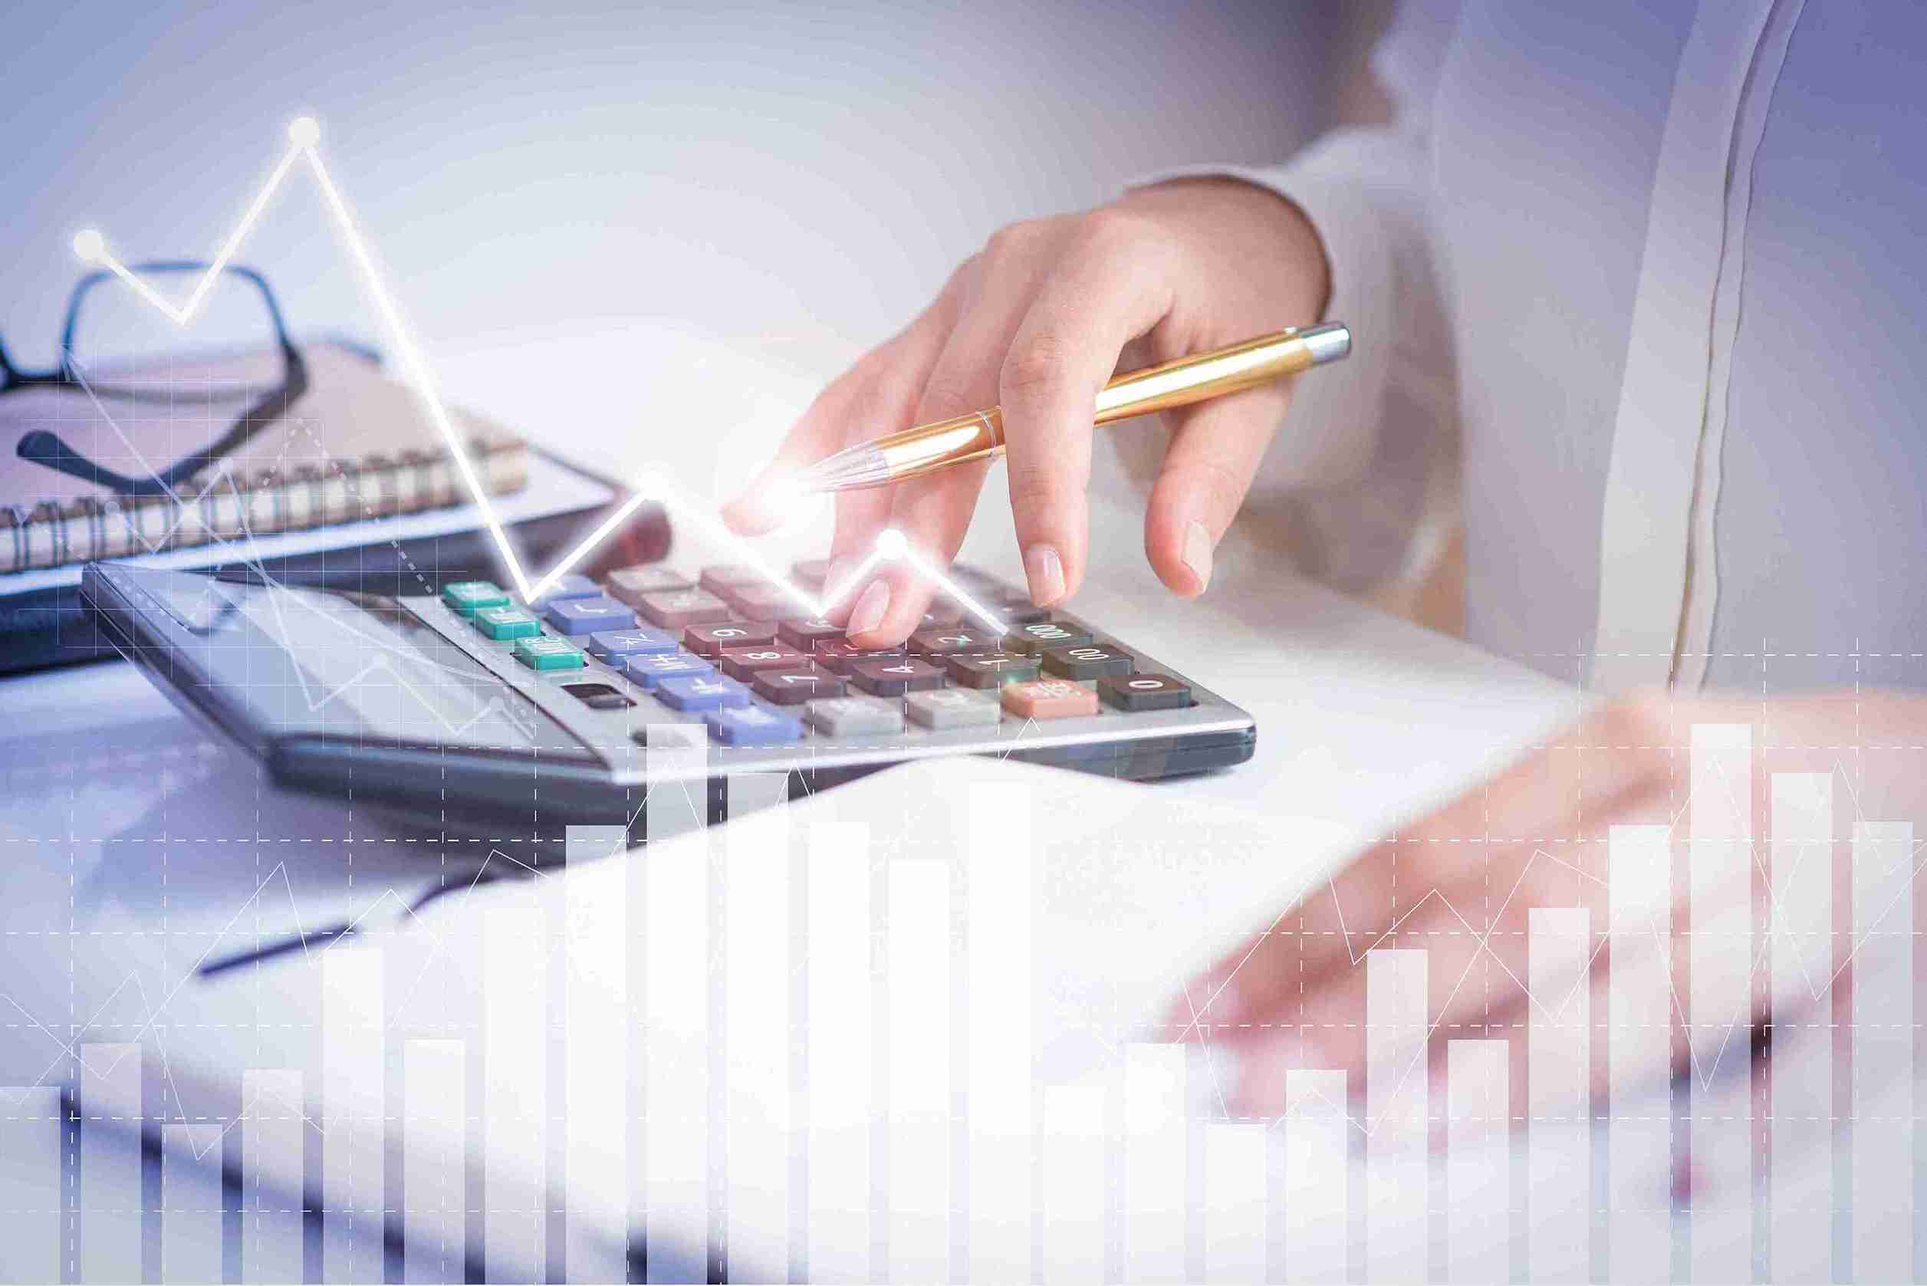
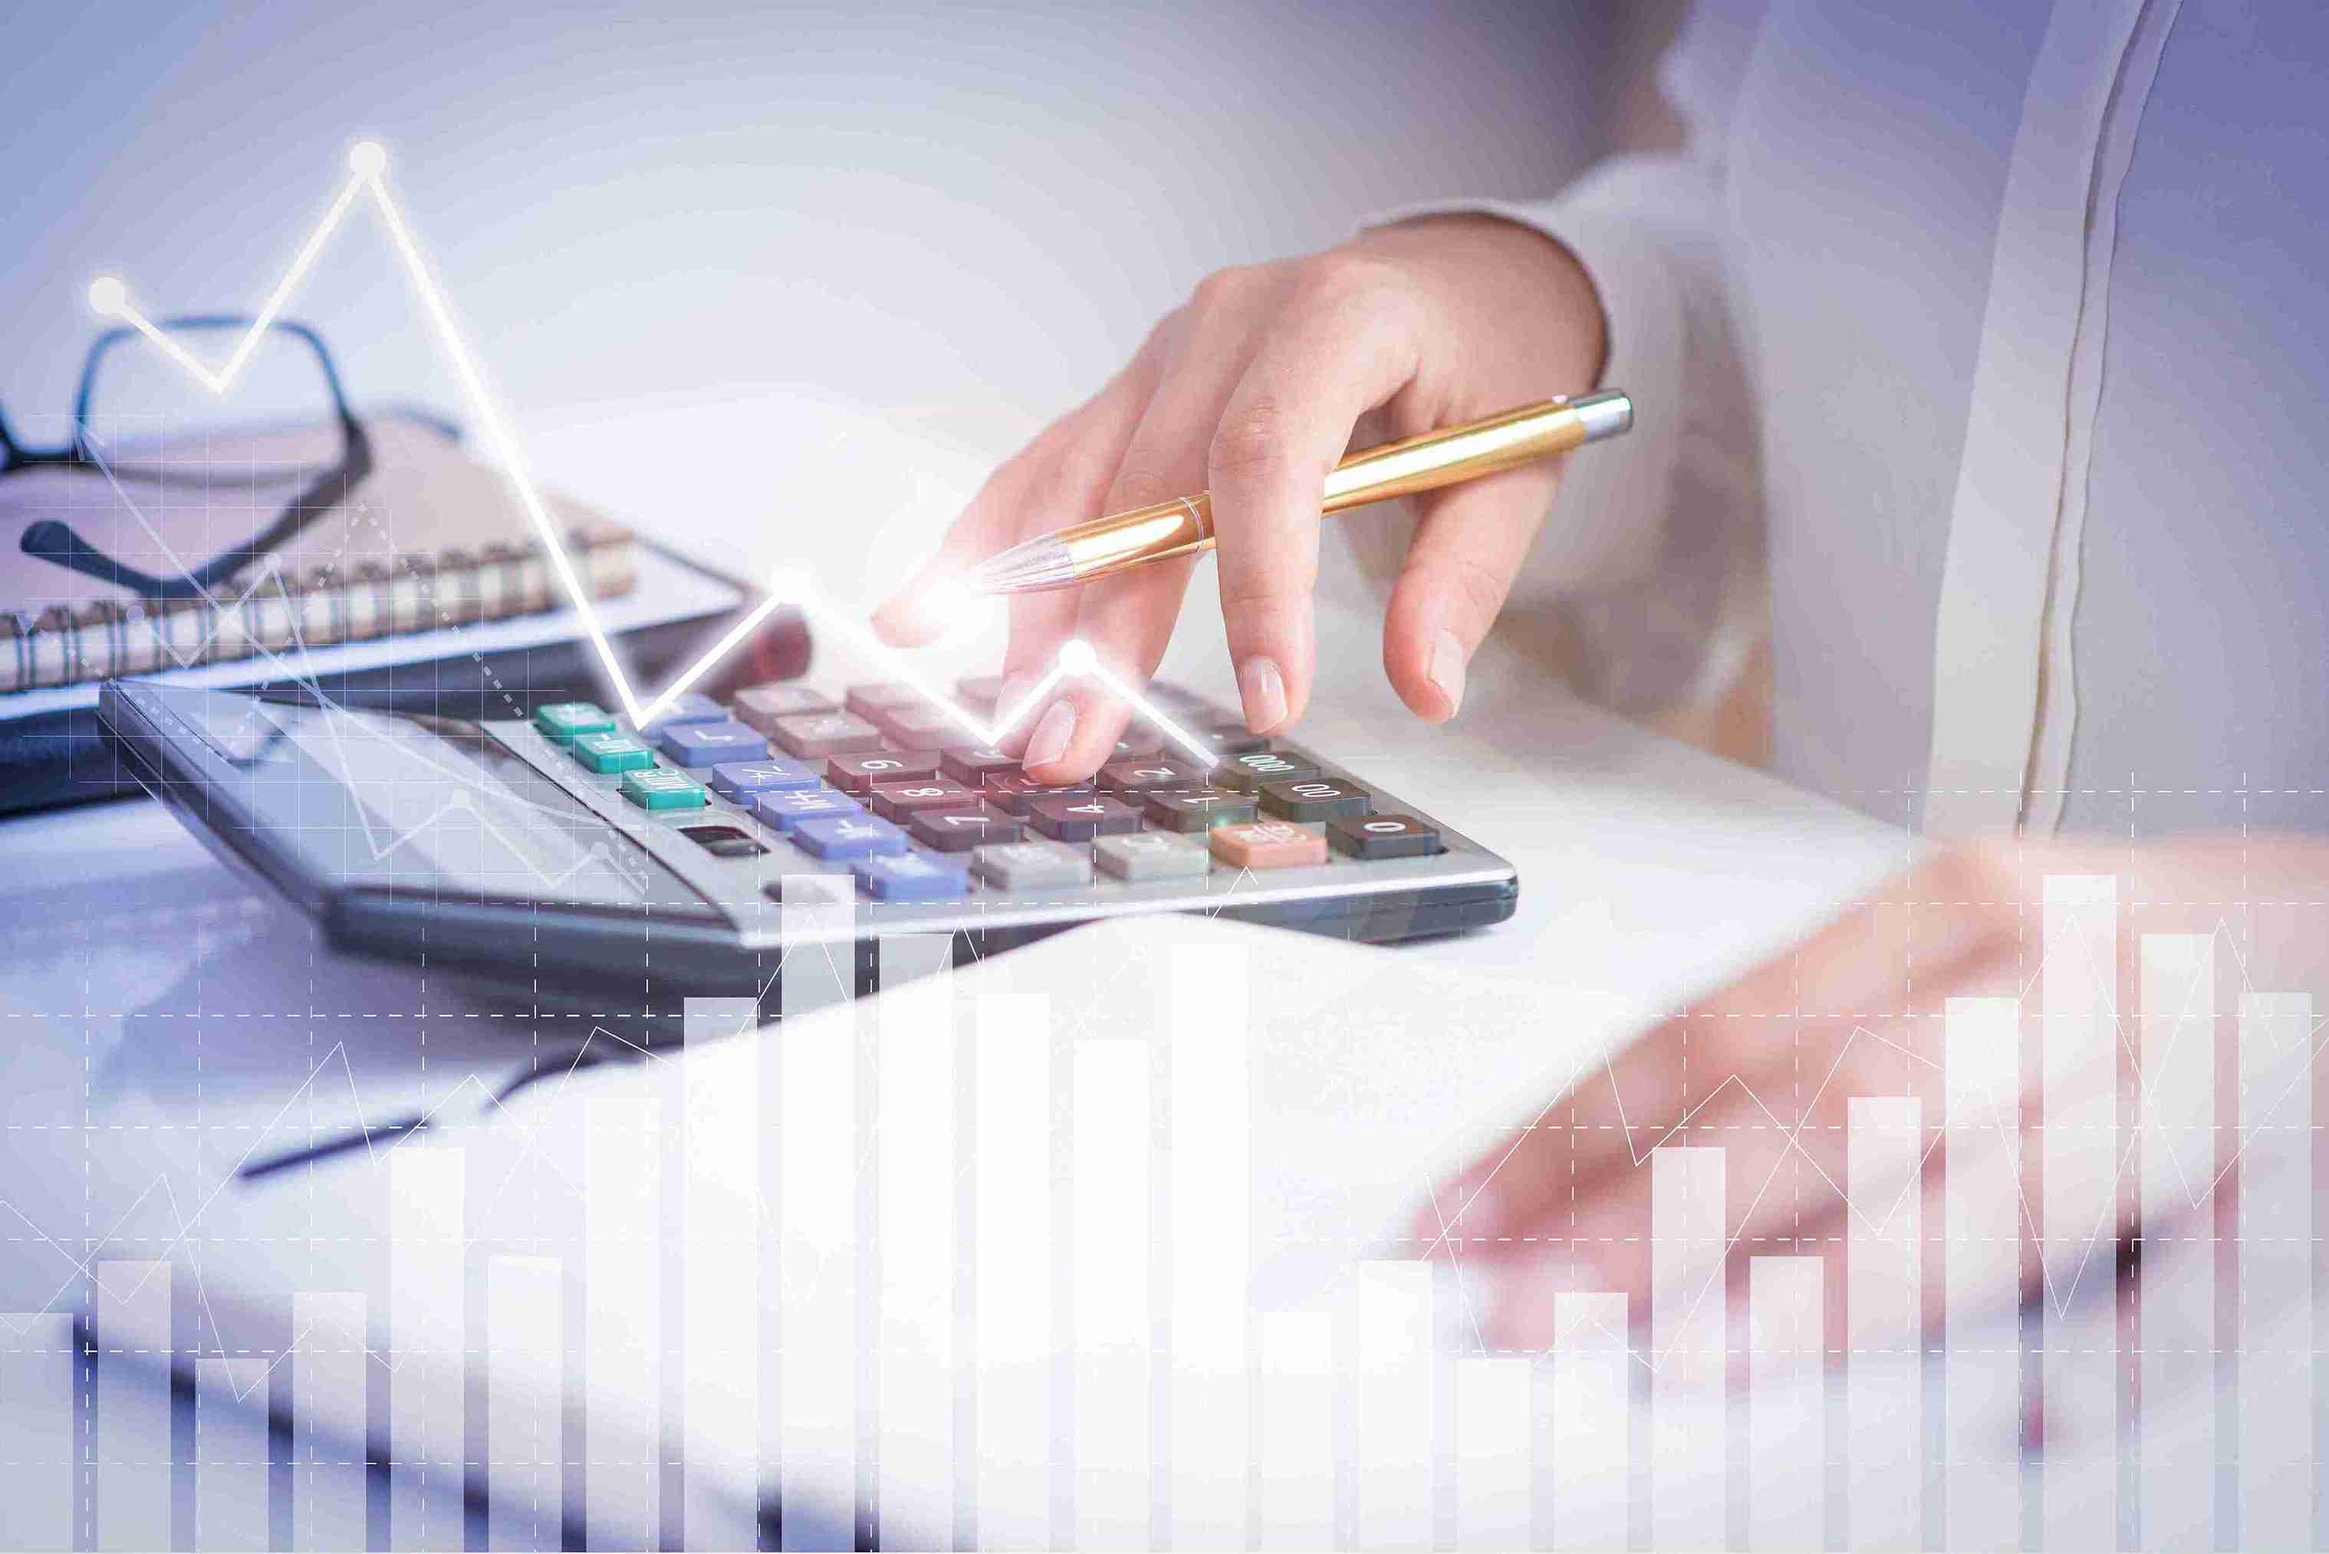
add contact-form and footer

Changed region(s): [[0.4656, 0.3411, 0.4966, 0.3721], [0.2483, 0.6512, 0.2793, 0.6822], [0.031, 0.4341, 0.0621, 0.4651]]

diff --git a/index.html b/index.html
@@ -905,9 +905,160 @@
           </div>
         </div>
       </section>
+
+      <!-- contact section -->
+
+      <section id="contact" class="contact-section py-5">
+        <div class="container my-5">
+          <div class="form-container shadow">
+              <div class="row g-0">
+                <div class="col-lg-4 contact-direct d-flex align-items-center">
+                  <div class="p-4">
+                      <h4>Direct Contact</h4>
+                      <div class="separator"></div>
+                      
+                      <div class="mb-4 mt-4">
+                          <div class="d-flex align-items-center mb-3">
+                              <div class="me-3">
+                                  <i class="bi bi-envelope contact-icon"></i>
+                              </div>
+                              <div>
+                                  <h6 class="mb-1">Email Us</h6>
+                                  <a href="mailto:info@agileadvisory.com" class="text-decoration-none">support@agileadvisory.in</a>
+                              </div>
+                          </div>
+                          
+                          <div class="d-flex align-items-center">
+                              <div class="me-3">
+                                  <i class="bi bi-telephone contact-icon"></i>
+                              </div>
+                              <div>
+                                  <h6 class="mb-1">Call Us</h6>
+                                  <a href="tel:+1234567890" class="text-decoration-none">+91 8129172677</a>
+                              </div>
+                          </div>
+                      </div>
+                      
+                      <div class="mt-5">
+                          <h5 class="mb-3">Agile Advisory Services</h5>
+                          <p class="text-muted">Helping organizations achieve agility through expert guidance, coaching, and transformation services.</p>
+                      </div>
+                  </div>
+              </div>
+
+                  <div class="col-lg-8">
+                      <div class="form-section">
+                          <h2 class="mb-2">Contact Us</h2>
+                          <div class="separator"></div>
+                          <p class="text-muted mb-4">Fill out the form below to get in touch with our team</p>
+                          
+                          <form id="contactForm">
+                              <div class="row g-4">
+                                  <div class="col-md-12">
+                                      <div class="form-floating">
+                                          <input type="text" class="form-control" id="fullName" placeholder=" " required>
+                                          <label for="firstName">Full Name</label>
+                                      </div>
+                                  </div>
+                              
+                                  <div class="col-md-6">
+                                      <div class="form-floating">
+                                          <input type="email" class="form-control" id="email" placeholder=" " required>
+                                          <label for="email">Email Address</label>
+                                      </div>
+                                  </div>
+                                  <div class="col-md-6">
+                                      <div class="form-floating">
+                                          <input type="tel" class="form-control" id="phone" placeholder=" " required>
+                                          <label for="phone">Phone Number</label>
+                                      </div>
+                                  </div>
+                                  <div class="col-12">
+                                      <div class="form-floating">
+                                        <select class="form-select form-control" id="subject" required>
+                                            <option value="" selected disabled>Select a subject</option>
+                                            <option value="consultation">Agile Consultation</option>
+                                            <option value="training">Team Training</option>
+                                            <option value="coaching">Agile Coaching</option>
+                                            <option value="assessment">Agile Assessment</option>
+                                            <option value="other">Other</option>
+                                        </select>
+                                      </div>
+                                  </div>
+                                  <div class="col-12">
+                                      <div class="form-floating">
+                                          <textarea class="form-control" id="message" style="height: 150px" placeholder=" " required></textarea>
+                                          <label for="message">How can we help you?</label>
+                                      </div>
+                                  </div>
+                                  <div class="col-12 mt-4">
+                                      <button type="submit" class="btn btn-submit">
+                                        <i class="bi bi-send me-2"></i>Send Message
+                                      </button>
+                                  </div>
+                              </div>
+                          </form>
+                      </div>
+                  </div>
+                  
+              </div>
+          </div>
+      </div>
+    </section>
     </main>
 
+    <!-- Footer -->
+<footer>
+  <div class="container">
+      <div class="row">
+          <!-- Logo -->
+          <div class="col-lg-4 col-md-6 mb-4 mb-md-0">
+              <img src="./asstes/images/AgileLogo1.png" alt="Agile Advisory Logo" class="footer-logo">
+              
+          </div>
+          
+          <!-- Quick Links -->
+          <div class="col-lg-4 col-md-6 mb-4 mb-md-0 quick-links">
+              <h5>Quick Links</h5>
+              <ul>
+                  <li><a href="#">Home</a></li>
+                  <li><a href="#about">About Us</a></li>
+                  <li><a href="#services">Services</a></li>
+                  <li><a href="#faq">FAQs</a></li>
+                  <li><a href="#contact">Contact</a></li>
+              </ul>
+          </div>
+          
+          <!-- Contact Info & Social Media -->
+          <div class="col-lg-4 col-md-12 contact-info">
+              <h5>Contact Us</h5>
+            
+              <p><i class="bi bi-telephone me-2"></i> +91 8129172677</p>
+              <p><i class="bi bi-envelope me-2"></i> support@agileadvisory.in</p>
+              
+              <div class="social-icons">
+                  <a href="#"><i class="bi bi-facebook"></i></a>
+                  <a href="#"><i class="bi bi-twitter-x"></i></a>
+                  <a href="#"><i class="bi bi-linkedin"></i></a>
+                  <a href="#"><i class="bi bi-instagram"></i></a>
+              </div>
+          </div>
+      </div>
+      
+      <!-- Copyright -->
+      <div class="row">
+          <div class="col-12">
+              <div class="copyright">
+                  <p>&copy; 2025 Agile Advisory. All Rights Reserved.</p>
+              </div>
+          </div>
+      </div>
+  </div>
+</footer>
+
     <script src="https://cdn.jsdelivr.net/npm/bootstrap@5.3.0-alpha1/dist/js/bootstrap.bundle.min.js"></script>
+    <script src="https://cdnjs.cloudflare.com/ajax/libs/bootstrap/5.3.0/js/bootstrap.bundle.min.js"></script>
+
     <script src="./scripts/script.js"></script>
   </body>
 </html>

diff --git a/styles/style.css b/styles/style.css
@@ -84,7 +84,7 @@
 }
 /* Hero Section */
 .hero-section {
-    background-image: url('../asstes/images/herosection.webp');
+    background-image: url('../asstes/images/herosection1.webp');
     background-size: cover;
     background-position: center;
     background-repeat: no-repeat;
@@ -576,5 +576,149 @@
     .accordion-button {
         padding: 12px 15px;
         font-size: 0.95rem;
+    }
+}
+
+/* Contact section */
+.form-container {
+    max-width: 800px;
+    margin: 0 auto;
+    background: white;
+}
+
+.form-section {
+    padding: 2rem;
+}
+
+
+.form-control {
+    border: none;
+    border-bottom: 1px solid #dee2e6;
+    border-radius: 0;
+    padding-left: 0;
+    padding-right: 0;
+}
+
+.form-control:focus {
+    box-shadow: none;
+    border-bottom: 2px solid #651406d7;
+}
+
+.form-floating>label {
+    padding-left: 0;
+}
+
+.form-floating>.form-control:focus~label,
+.form-floating>.form-control:not(:placeholder-shown)~label {
+    transform: scale(.85) translateY(-1rem) translateX(0);
+    padding-left: 0;
+}
+
+.contact-direct {
+    background-color: #a9402d4c;
+}
+
+.contact-icon {
+    font-size: 1.5rem;
+    color: #651406d7;
+}
+
+.btn-submit {
+    background-color: #651406d7;
+    color: white;
+    border: none;
+    border-radius: 10px;
+    padding: 12px 30px;
+    text-transform: uppercase;
+    letter-spacing: 1px;
+    font-weight: 600;
+    transition: all 0.3s;
+}
+
+.btn-submit:hover {
+    background-color: #a93f2dd7;
+    transform: translateY(-2px);
+}
+
+.separator {
+    height: 4px;
+    width: 50px;
+    background-color: #651406d7;
+    margin: 1rem 0;
+}
+@media (max-width: 767px) {
+    .form-section{
+        order: 1;
+    }
+    .contact-direct{
+        order: 2;
+    }
+}
+
+footer {
+    background-color: #2f2d2d9e;
+    color: #fff;
+    padding: 50px 0 20px;
+}
+.footer-logo {
+    max-width: 180px;
+    margin-top: 60px;
+    margin-bottom: 20px;
+}
+.quick-links h5, .contact-info h5 {
+    margin-bottom: 20px;
+    font-weight: 600;
+}
+.quick-links ul {
+    list-style: none;
+    padding-left: 0;
+}
+.quick-links ul li {
+    margin-bottom: 10px;
+}
+.quick-links a {
+    color: #ccc;
+    text-decoration: none;
+    transition: color 0.3s;
+}
+.quick-links a:hover {
+    color: #fff;
+}
+.contact-info p {
+    margin-bottom: 8px;
+    color: #ccc;
+}
+.social-icons {
+    margin-top: 20px;
+}
+.social-icons a {
+    display: inline-block;
+    width: 36px;
+    height: 36px;
+    background-color: #333;
+    border-radius: 50%;
+    color: #fff;
+    text-align: center;
+    line-height: 36px;
+    margin-right: 10px;
+    transition: background-color 0.3s;
+}
+.social-icons a:hover {
+    background-color: #651406d7;
+}
+.copyright {
+    margin-top: 30px;
+    border-top: 1px solid #333;
+    padding-top: 20px;
+    text-align: center;
+    color: #cfc9c9;
+}
+
+@media (max-width: 767px) {
+    footer{
+        padding: 30px;
+    }
+    .footer-logo{
+        max-width: 150px;
     }
 }
